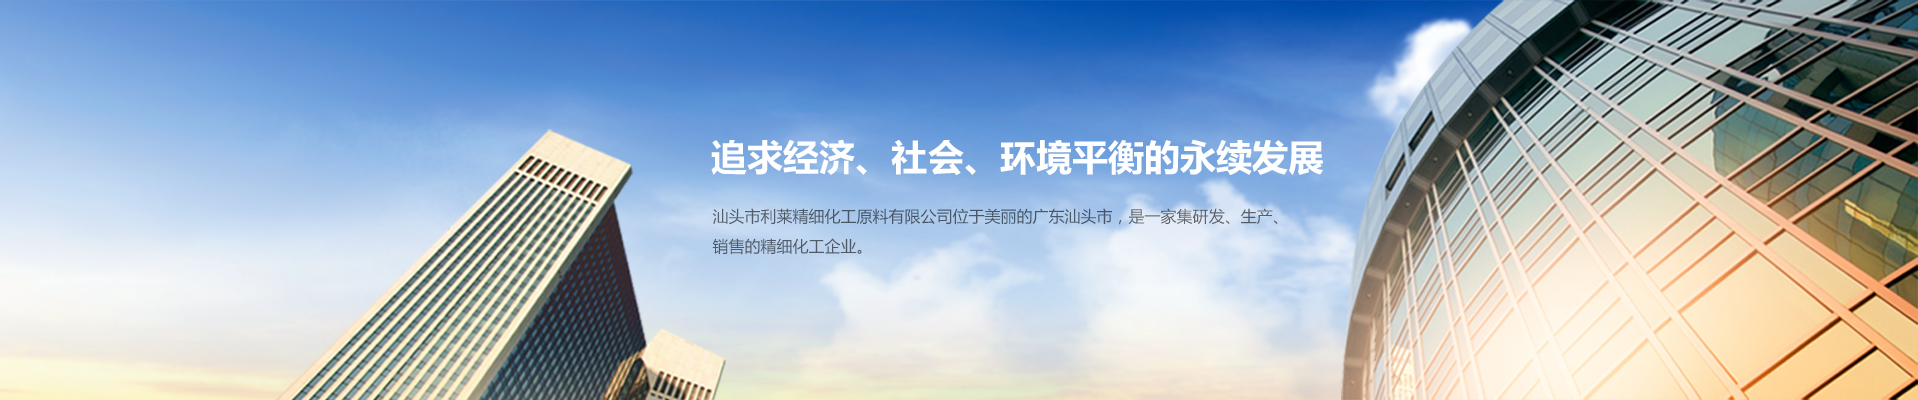
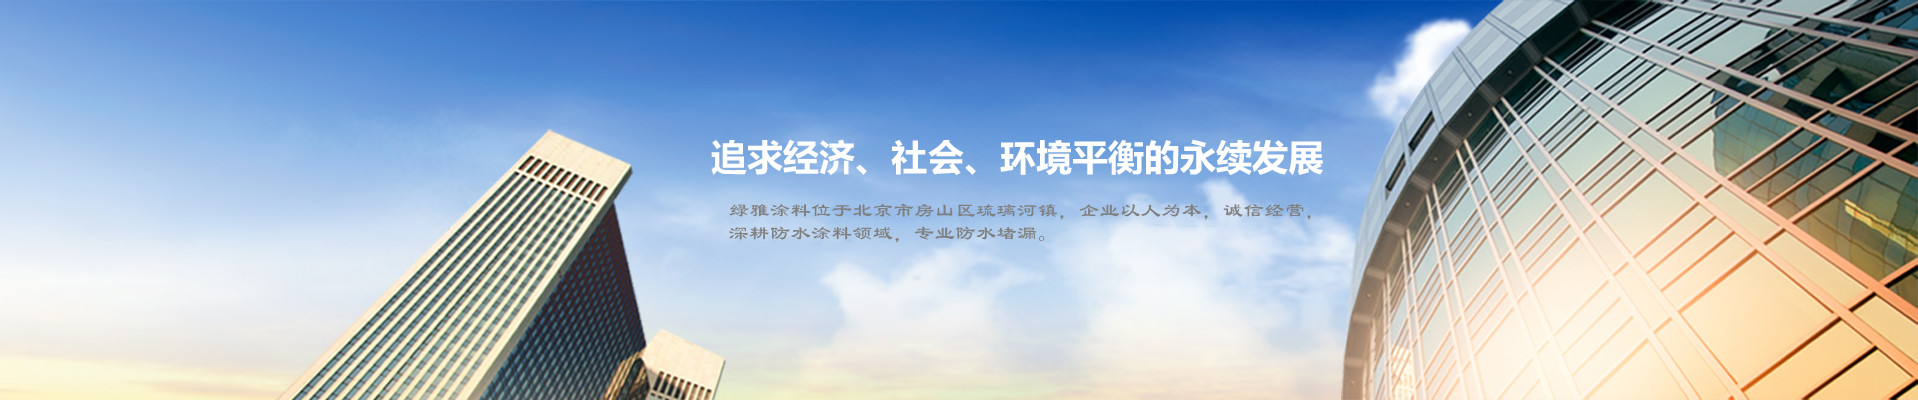
Add files via upload

Changed region(s): [[0.3691, 0.51, 0.6767, 0.63]]

diff --git a/index.html b/index.html
@@ -2,9 +2,9 @@
 <html>
 	<head>
 		<meta charset="utf-8" />
-		<title>Shantou Lilai fine chemical raw materials Co. Ltd.</title>
-		<meta name="keywords" content="Beijing lvya fine chemical raw materials Co. Ltd." />
-		<meta name="description" content="Shantou Lilai fine chemical raw materials Co. Ltd." />
+		<title>北京绿雅防水涂料</title>
+		<meta name="keywords" content="北京绿雅防水涂料" />
+		<meta name="description" content="北京绿雅防水涂料" />
 		<meta name="viewport" content="width=device-width, initial-scale=1.0">
 		<link rel="stylesheet" href="css/bootstrap.css" type="text/css" />
 		<link rel="stylesheet" href="css/style.css" type="text/css" />
@@ -16,9 +16,9 @@
 		<div class="top">
 			<div class="top-logo">
 	            <div class="logo_box">
-	                <h6 class="hidden-xs">Shantou Lilai fine chemical raw materials Co. Ltd.</h6>
+	                <h6 class="hidden-xs">北京绿雅防水涂料</h6>
 	                <div class="login">
-	                    <div class="collection  hidden-xs"><span>Set to the home page</span><b>丨</b><span>Join collection</span></div>
+	                    <div class="collection  hidden-xs"><span>欢迎光临</span><b>丨</b><span>绿雅防水</span></div>
 		               
 		                </div>
 	               </div>
@@ -29,8 +29,8 @@
 					<a href="/"><img src="images/logo.png"></a>
 				</div>
 				<div class="hotline">
-					<span>客户服务热线：</span>
-					<i>010-********</i>
+					<span>联系电话：</span>
+					<i>13601193303</i>
 				</div>
 			</div>
 		</div>
@@ -83,17 +83,17 @@
 			<div class="container">
 				<div class="row">
 					<div class="col-lg-9 hidden-xs">
-						<span>Hot key words：      </span>
-						<a href="">Aromatic solvent</a>
-						<a href="">Cleaner Series</a>
-						<a href="">Dearomatic Solvent</a>
+						<span>关键词：      </span>
+						<a href="product.html">防水剂</a>
+						<a href="product.html">JS</a>
+						<a href="product.html">水不漏</a>
 					</div>
-					<div class="col-lg-3 clo-xs-12">
+					<!--div class="col-lg-3 clo-xs-12">
 						<div class="sousuo">
 							<input type="text" placeholder="Please enter the key words" />
 							<button class="sousuo-btn">search</button>
 						</div>
-					</div>
+					</div-->
 				</div>
 			</div>
 		</div>
@@ -103,13 +103,15 @@
 					<div class="product">
 						<h2>产品目录</h2>
 						<ul class="prodeuct-list">
-							<li><a href="">目录1</a></li>
-							<li><a href="">目录2</a></li>
-							<li><a href="">目录3</a></li>
-							<li><a href="">目录4</a></li>
+							<li><a href="product.html" style="font-size: 12px;">有机硅防水剂</a></li>
+							<li><a href="product.html" style="font-size: 12px;">JS防水涂料</a></li>
+							<li><a href="product.html" style="font-size: 12px;">单租份水性卷纸</a></li>
+							<li><a href="product.html" style="font-size: 12px;">水不漏</a></li>
+							<li><a href="product.html" style="font-size: 12px;">水泥基渗透结晶</a></li>
+							<li><a href="product.html" style="font-size: 12px;">“免砸砖”堵漏剂</a></li>
 						</ul>
-						<p>Collection of scientific research, production and sales<br/>Fine chemical enterprise</p>
-						<p><a href="">Immediately consult</a></p>
+						<!--p>更多产品细节请联系我们<br/>期待与您合作！</p-->
+						<p><a href="">联系我们</a></p>
 					</div>
 				</div>
 				<div class="col-lg-9 col-xs-12">
@@ -118,7 +120,7 @@
 							<div class="col-lg-7 col-xs-12">
 								<div class="about">
 								   <div class="title"><h2>关于我们</h2><a href="">更多></a></div>
-								   <p>北京绿雅精细化工原料有限公司是一家集科研、生产、销售的精细化工企业。创建十年来，利莱人致力于开发绿色环保的化工产品，优化环境，服务社会。凭敬业、开拓、贡 献的企业精神，以质量第一、用户至上为企业的经营宗旨，不断开拓进取，企业规模和效益快速增长。</p>
+								   <p>北京绿雅涂料有限公司是一家集科研、生产、销售的精细化工企业。创建十年来，绿雅致力于开发绿色环保的化工产品，深耕防水涂料领域，以品质上乘、物美价廉的自研产品博得广大客户的信任与喜爱。以诚信经营、以人为本为企业的经营宗旨，不断开拓进取，企业规模和效益快速增长。</p>
 								</div>
 							</div>
 							<div class="col-lg-5 col-xs-12 pic">
@@ -134,13 +136,8 @@
 								   <div class="txtScroll-top">
 										<div class="bd">
 											<ul class="infoList">
-												<li><span class="date">2016-10-17</span><a href="" target="_blank">低配方成本、高产品性能干挂胶专用环氧</a></li>
-												<li><span class="date">2016-10-16</span><a href="" target="_blank">低配方成本、高产品性能干挂胶专用环氧</a></li>
-												<li><span class="date">2016-10-15</span><a href="" target="_blank">低配方成本、高产品性能干挂胶专用环氧</a></li>
-												<li><span class="date">2016-10-14</span><a href="" target="_blank">低配方成本、高产品性能干挂胶专用环氧</a></li>
-												<li><span class="date">2016-10-13</span><a href="" target="_blank">低配方成本、高产品性能干挂胶专用环氧</a></li>
-												<li><span class="date">2016-10-12</span><a href="" target="_blank">低配方成本、高产品性能干挂胶专用环氧</a></li>
-												<li><span class="date">2016-10-11</span><a href="" target="_blank">低配方成本、高产品性能干挂胶专用环氧</a></li>
+												<li><span class="date">2024-04-05</span><a href="" target="_blank">强力防水剂效果获得客户好评</a></li>
+												
 											</ul>
 										</div>
 									</div>
@@ -150,12 +147,12 @@
 								<div class="about">
 								   <div class="title"><h2>联系我们</h2><span></span><a href="">更多></a></div>
 								   <div class="contact1">
-								   	  <p><img src="images/icon1.jpg"/>Hotline：010-1360*******</p>
-								   	  <p><img src="images/icon2.jpg"/>Contacts：杨先生   </p>
-								   	  <p><img src="images/icon3.jpg"/>E-mail：471773483@qq.com </p>
-								   	  <p><img src="images/icon4.jpg"/>Fax number：0754-82512933 </p>
-								   	  <p><img src="images/icon5.jpg"/>Postcode：515061</p>
-								   	  <p><img src="images/icon6.png"/>Address：北京市房山区****</p>
+								   	  <p><img src="images/icon1.jpg"/>电话：13601193303</p>
+								   	  <p><img src="images/icon2.jpg"/>联系人：杨先生   </p>
+								   	  <p><img src="images/icon3.jpg"/>邮箱：471773483@qq.com </p>
+								   	  <p><img src="images/icon4.jpg"/>传真： </p>
+								   	  <p><img src="images/icon5.jpg"/>邮政编码：</p>
+								   	  <p><img src="images/icon6.png"/>地址：北京市房山区琉璃河镇</p>
 								   </div>
 								</div>
 							</div>
@@ -207,53 +204,50 @@
     		<div class="row">
     			<div class="copy-left">
     				<img src="images/dilogo.png" />
-    				<p><i class="iconfont"><img src="images/dianhua.png"/></i>0754-82515933</p>
-    				<p style="font-size: 13px;">Monday to Friday 9:00-21:00</p>
-    				<a href="" class="kf">Online Service</a>
+    				<p><i class="iconfont"><img src="images/dianhua.png"/></i>13601193303</p>
+    				<p style="font-size: 13px;">7*24小时热线电话</p>
+    				<!--a href="" class="kf">Online Service</a-->
     			</div>
     			<ul class="copy-mid">
     				<li>
-    					<h2>ABOUT US</h2>
+    					<h2>关于我们</h2>
     					<dl>
-    						<dt><a href="">Company Profile</a></dt>
-    						<dt><a href="">Company  History</a></dt>
-    						<dt><a href="">Honor & Certificate</a></dt>
-    						<dt><a href="">Corporate Cultur</a></dt>
-    						<dt><a href="">Disclaimer</a></dt>
+    						<dt><a href="">公司简介</a></dt>
+    						
     					</dl>
     				</li>
     				<li>
-    					<h2>NEWS</h2>
+    					<h2>新闻</h2>
     					<dl>
-    						<dt><a href="">Industry News</a></dt>
-    						<dt><a href="">Company News</a></dt>
+    						<dt><a href="">公司新闻</a></dt>
+    						
     					</dl>
     				</li>
     				<li>
-    					<h2>PRODUCTS</h2>
+    					<h2>产品</h2>
     					<dl>
-    						<dt><a href="">Aromatic Fluid</a></dt>
-    						<dt><a href="">Dearomatic Solvent</a></dt>
-    						<dt><a href="">Drilling Fluid Additive</a></dt>
-    						<dt><a href="">Cleaner Series</a></dt>
+    						<dt><a href="">有机硅防水剂</a></dt>
+    						<dt><a href="">JS防水涂料</a></dt>
+    						<dt><a href="">单租份水性卷纸</a></dt>
+    						<dt><a href="">水不漏 等</a></dt>
     					</dl>
     				</li>
-    				<li>
+    				<!--li>
     					<h2>RESOURCES</h2>
     					<dl>
     						<dt><a href="">Talent Concept</a></dt>
     						<dt><a href="">Recruitment</a></dt>
     					</dl>
-    				</li>
+    				</li-->
     			</ul>
     			<div class="copy-right">
-    				<p>Wechat number</p>
+    				<p>微信</p>
     				<img src="images/weixin.png" />
     			</div>
     		</div>
     	</div>
     </div>
-    <div class="copy  hidden-md hidden-xs ">Shantou Lilai fine chemical raw materials Co. Ltd. &nbsp; &nbsp; &nbsp; &nbsp; ICP备案号：粤ICP备字123456号</div>
+    <div class="copy  hidden-md hidden-xs ">北京绿雅涂料有限公司 &nbsp; &nbsp; &nbsp; &nbsp; </div>
     <div class="copy hidden-lg mt">
     	<p>Shantou Lilai fine chemical raw materials Co. Ltd.</p>
     	<p>更多模板：<a href="http://www.cssmoban.com/" target="_blank">模板之家</a></p>

diff --git a/product.html b/product.html
@@ -2,9 +2,9 @@
 <html>
 	<head>
 		<meta charset="utf-8" />
-		<title>Shantou Lilai fine chemical raw materials Co. Ltd.</title>
-		<meta name="keywords" content="Shantou Lilai fine chemical raw materials Co. Ltd." />
-		<meta name="description" content="Shantou Lilai fine chemical raw materials Co. Ltd." />
+		<title>北京绿雅防水涂料</title>
+		<meta name="keywords" content="北京绿雅防水涂料" />
+		<meta name="description" content="北京绿雅防水涂料" />
 		<meta name="viewport" content="width=device-width, initial-scale=1.0">
 		<link rel="stylesheet" href="css/bootstrap.css" type="text/css" />
 		<link rel="stylesheet" href="css/style.css" type="text/css" />
@@ -16,14 +16,10 @@
 		<div class="top">
 			<div class="top-logo">
 	            <div class="logo_box">
-	                <h6 class="hidden-xs">Shantou Lilai fine chemical raw materials Co. Ltd.</h6>
+	                <h6 class="hidden-xs">北京绿雅防水涂料</h6>
 	                <div class="login">
-	                    <div class="collection  hidden-xs"><span>Set to the home page</span><b>丨</b><span>Join collection</span></div>
-		                <div class="switch">
-		                    <div class="zw"><a href="/" style="color: #009944;">中文版</a></div>
-		                    <div class="yw"><a href="/english" style="color: #fff;">英文版</a></div>
-		                    <div class="hk"><a href="/" style="color: #009944;">中文版</a></div>
-		                </div>
+	                    <div class="collection  hidden-xs"><span>欢迎光临</span><b>丨</b><span>绿雅防水</span></div>
+		                
 	               </div>
 	           </div>
 	       </div>
@@ -32,8 +28,8 @@
 					<a href="/"><img src="images/logo.png"></a>
 				</div>
 				<div class="hotline">
-					<span>Customer Service Hotline：</span>
-					<i>0754-82515933</i>
+					<span>联系电话：</span>
+					<i>13601193303</i>
 				</div>
 			</div>
 		</div>
@@ -50,14 +46,11 @@
 	                </div>
 	                <div class="navbar-collapse collapse" style="height: 1px;">
 	                    <ul class="nav navbar-nav">
-	                        <li class="active"><a href="index.html">HOME</a></li>
-	                        <li><a href="about.html">ABOUT US</a></li>
-	                        <li><a href="honor.html">HONOR</a> </li>
-	                        <li><a href="product.html">PRODUCTS</a></li>
-	                        <li><a href="news.html">NEWS</a></li>
-	                        <li><a href="talent.html">RESOURCES</a></li>
-	                        <li><a href="contact.html">CONTACT US</a></li>
-	                        <li><a href="online.html">FEEDBACK</a></li>
+	                        <li class="active"><a href="index.html">首页</a></li>
+	                        <li><a href="about.html">关于我们</a></li>
+	                        <li><a href="product.html">产品</a></li>
+	                        <li><a href="news.html">新闻</a></li>
+	                        <li><a href="contact.html">联系我们</a></li>
 	                    </ul>
 	                </div>
 	            </div>
@@ -87,9 +80,9 @@
 		</div>
 		<div class="pst_bg">
 			<div class="pst">
-		    	Your current location：
-		        <a href="">PRODUCTS</a>&gt;
-		        <a href="">Aromatic Fluid</a>
+		    	当前位置：
+		        <a href="">产品</a>&gt;
+		        <a href="">明细</a>
 		    </div>
 		</div>
 		<div class="scd clearfix">
@@ -99,21 +92,24 @@
             <i>&nbsp;</i>
         </div>
         <ul class="s_nav">
-        	<li class="now"><a href="">Aromatic Fluid</a></li>
-            <li><a href="">Dearomatic Solvent</a></li>
-            <li><a href="">Drilling Fluid Additive</a></li>
-            <li><a href="">Cleaner Series</a></li>
+        	<li class="now"><a href="">有机硅防水剂</a></li>
+            <li><a href="">JS防水涂料</a></li>
+            <li><a href="">单租份水性卷纸</a></li>
+            <li><a href="">水不漏</a></li>
+			<li><a href="">水泥基渗透结晶</a></li>
+			<li><a href="">“免砸砖”堵漏剂</a></li>
         </ul>
     </div>
     <div class="scd_r">
     	<div class="r_name"><span>PRODUCTS</span></div>
         <div class="pro clearfix">
         	<dl class="clearfix">
-            	<dt><a href="detail.html"><img src="images/pro.jpg" alt=""></a></dt>
+            	<dt><a href="detail.html"><img src="images/1.jpg" alt=""></a></dt>
                 <dd>
-                	<div class="title"><a href="">钻井液用乳化剂LL-06</a></div>
-                    <div class="des">钻井液用乳化剂LL-06采用天然化学品和绿色表面活性剂复配而成，是一种乳化能力较强的乳化剂，可显</div>
-                    <a href="detail.html" class="more">+more</a>
+                	<div class="title"><a href="">有机硅渗透防水剂-桶装</a></div>
+                    <div class="des">描述：强力防水</div>
+					<div class="des">价格：12元/公斤</div>
+                    <!--a href="detail.html" class="more">+more</a-->
                 </dd>
             </dl>
             <dl class="clearfix">
@@ -165,56 +161,51 @@
     		<div class="row">
     			<div class="copy-left">
     				<img src="images/dilogo.png" />
-    				<p><i class="iconfont"><img src="images/dianhua.png"/></i>0754-82515933</p>
-    				<p style="font-size: 13px;">Monday to Friday 9:00-21:00</p>
-    				<a href="" class="kf">Online Service</a>
+    				<p><i class="iconfont"><img src="images/dianhua.png"/></i>13601193303</p>
+    				<p style="font-size: 13px;">7*24小时热线电话</p>
+    				<!--a href="" class="kf">Online Service</a-->
     			</div>
     			<ul class="copy-mid">
     				<li>
-    					<h2>ABOUT US</h2>
+    					<h2>关于我们</h2>
     					<dl>
-    						<dt><a href="">Company Profile</a></dt>
-    						<dt><a href="">Company  History</a></dt>
-    						<dt><a href="">Honor & Certificate</a></dt>
-    						<dt><a href="">Corporate Cultur</a></dt>
-    						<dt><a href="">Disclaimer</a></dt>
+    						<dt><a href="">公司简介</a></dt>
     					</dl>
     				</li>
     				<li>
-    					<h2>NEWS</h2>
+    					<h2>新闻</h2>
     					<dl>
-    						<dt><a href="">Industry News</a></dt>
-    						<dt><a href="">Company News</a></dt>
+    						<dt><a href="">公司新闻</a></dt>
     					</dl>
     				</li>
     				<li>
-    					<h2>PRODUCTS</h2>
+    					<h2>产品</h2>
     					<dl>
-    						<dt><a href="">Aromatic Fluid</a></dt>
-    						<dt><a href="">Dearomatic Solvent</a></dt>
-    						<dt><a href="">Drilling Fluid Additive</a></dt>
-    						<dt><a href="">Cleaner Series</a></dt>
+    						<dt><a href="">有机硅防水剂</a></dt>
+    						<dt><a href="">JS防水涂料</a></dt>
+    						<dt><a href="">单租份水性卷纸</a></dt>
+    						<dt><a href="">水不漏 等</a></dt>
     					</dl>
     				</li>
-    				<li>
+    				<!--li>
     					<h2>RESOURCES</h2>
     					<dl>
     						<dt><a href="">Talent Concept</a></dt>
     						<dt><a href="">Recruitment</a></dt>
     					</dl>
-    				</li>
+    				</li-->
     			</ul>
     			<div class="copy-right">
-    				<p>Wechat number</p>
+    				<p>微信</p>
     				<img src="images/weixin.png" />
     			</div>
     		</div>
     	</div>
     </div>
-    <div class="copy  hidden-md hidden-xs ">Shantou Lilai fine chemical raw materials Co. Ltd. &nbsp; &nbsp; &nbsp; &nbsp; ICP备案号：粤ICP备字123456号</div>
+    <div class="copy  hidden-md hidden-xs ">北京绿雅涂料有限公司 &nbsp; &nbsp; &nbsp; &nbsp; </div>
     <div class="copy hidden-lg mt">
-    	<p>Shantou Lilai fine chemical raw materials Co. Ltd.</p>
-    	<p>更多模板：<a href="http://www.cssmoban.com/" target="_blank">模板之家</a></p>
+    	<p>北京绿雅涂料有限公司</p>
+    	<!--p>更多模板：<a href="http://www.cssmoban.com/" target="_blank">模板之家</a></p-->
     </div>
 	</body>
 </html>
